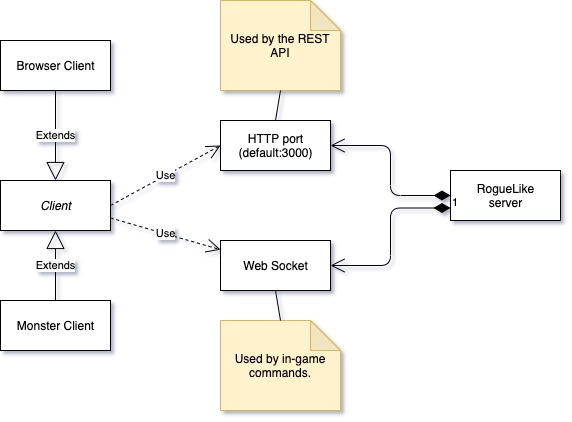
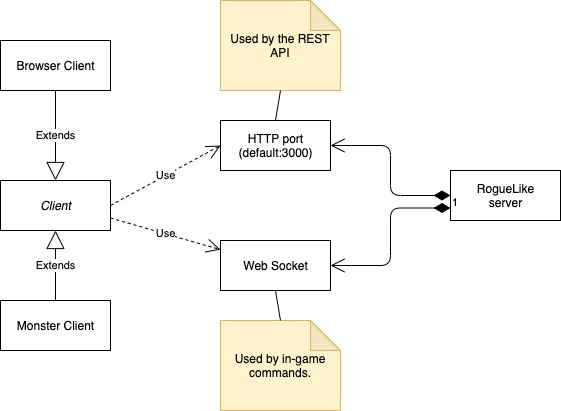
Added more diagrams to readme.

Changed region(s): [[0.0, 0.0876, 1.0, 1.0], [0.2727, 0.0, 0.6667, 0.438]]

diff --git a/README.md b/README.md
@@ -66,5 +66,8 @@ When coding, use these npm commands to run unit tests against the source code:
 - GET http://localhost:3000/reset - reset the server
 - GET http://localhost:3000/roles - lists the roles
 
-## Overall Architecture
+## Overall Component Architecture
 ![Component Diagram](./docs/components.jpg)
+
+## Class diagrams
+![Class Diagram](./docs/classes/Slide1.jpg)
